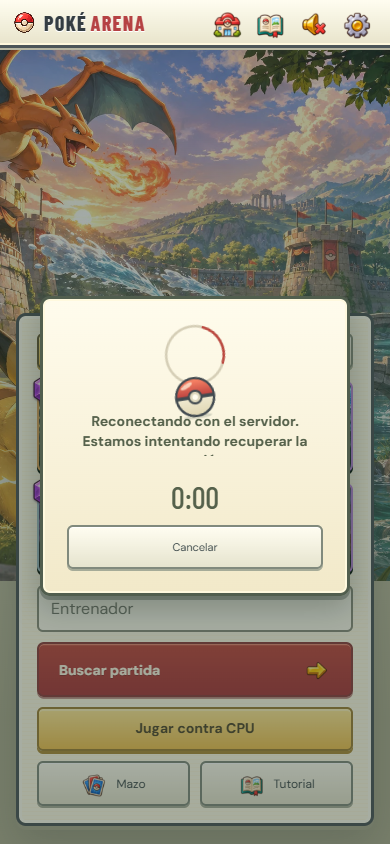
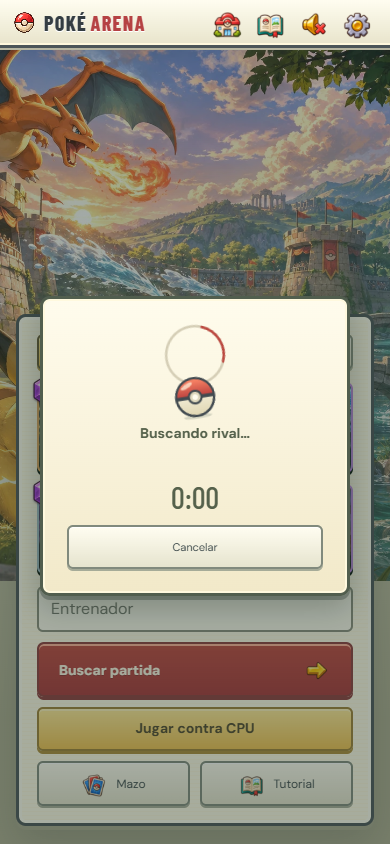
Document the completed UI and loading review

Changed region(s): [[0.2154, 0.4929, 0.7692, 0.5545], [0.0923, 0.8009, 0.8923, 0.8318]]

diff --git a/docs/UI-UX-REVIEW.md b/docs/UI-UX-REVIEW.md
@@ -2,7 +2,7 @@
 
 Se revisaron la home, el editor, las fichas, una partida contra CPU, una partida online entre dos sesiones y Ajustes. Las capturas corresponden a esta revisión. El criterio fue priorizar el tablero y sus controles, mantener el estilo de menús crema de la época GBA/DS y usar texto que ayude a jugar.
 
-1. **Home: corregida y verificada.** Los cuatro mazos siguen guardándose automáticamente. Se corrigió el contraste del coste medio y se compactó el panel de portátiles: Mazo y Tutorial quedan visibles en 1280 × 720. Los botones principales tienen al menos 44 px de alto.
+1. **Home: corregida y verificada.** Los cuatro mazos siguen guardándose automáticamente. Se quitaron el título, el coste medio y la etiqueta visible del nombre; el campo conserva su etiqueta accesible. Se acomodaron las filas para aprovechar ese espacio, también en horizontal. El botón de CPU usa una tipografía consistente con los demás controles. Los botones principales tienen al menos 44 px de alto.
 
    <img src="ui-review/01-home.png" width="780" alt="Home de Poké Arena en un portátil: todos los controles caben en el panel.">
 
@@ -11,7 +11,7 @@ Se revisaron la home, el editor, las fichas, una partida contra CPU, una partida
    <img src="ui-review/02-editor.png" width="330" alt="Editor compacto con cuatro selectores y cartas de hechizos.">
    <img src="ui-review/02-detail.png" width="330" alt="Ficha de Pikachu con iconos de estadísticas de estilo RPG.">
 
-   La búsqueda sin coincidencias ofrece una acción para recuperar todas las cartas. La ayuda presenta tres pasos breves y deja las reglas completas como contenido opcional. Pausa, victoria y derrota comparten el panel crema y los controles ilustrados.
+   La búsqueda sin coincidencias ofrece una acción para recuperar todas las cartas. La ayuda presenta tres pasos breves y un acceso a la práctica; se retiró el bloque extenso de reglas. Pausa, victoria y derrota comparten el panel crema y los controles ilustrados.
 
    <img src="ui-review/02-help.png" width="300" alt="Ayuda breve con acceso directo a la práctica.">
    <img src="ui-review/02-result.png" width="300" alt="Resultado de partida con controles y panel crema.">
@@ -21,7 +21,7 @@ Se revisaron la home, el editor, las fichas, una partida contra CPU, una partida
    <img src="ui-review/03-mobile-battle.png" width="330" alt="Partida móvil sin cabecera, con tres habilidades desplazables sobre la arena.">
    <img src="ui-review/03-desktop-battle.png" width="900" alt="Partida de escritorio con el panel derecho integrado con el fondo.">
 
-4. **Partida online: verificada.** No hay pausa ni acceso al mazo durante la partida, tampoco mediante Espacio. Abrir ajustes desde escritorio o girar el teléfono no pausa la simulación online. Se comprobó además que una respuesta de despliegue demorada no deja el indicador ni permite duplicar la carta. Al finalizar se vuelve a la home para editar el mazo.
+4. **Partida online: verificada.** No hay pausa ni acceso al mazo durante la partida, tampoco mediante Espacio. Los accesos al inicio están bloqueados mientras la partida sigue activa. Una recarga recupera la misma sesión y sala, sin enviar una cancelación ni iniciar otra búsqueda. La recuperación comienza antes de terminar de descargar las imágenes. Si la recarga ocurre durante una búsqueda, continúa esa búsqueda. Abrir ajustes desde escritorio o girar el teléfono no pausa la simulación online. Se comprobó además que una respuesta de despliegue demorada no deja el indicador ni permite duplicar la carta. Al finalizar se vuelve a la home para editar el mazo.
 
    <img src="ui-review/04-online.png" width="900" alt="Partida online: nombre rival y reloj sobre el tablero, sin botón de pausa.">
 
@@ -51,3 +51,14 @@ La carga inicial usa una Pokébola animada con progreso real de sprites y atlas.
 
 <img src="ui-review/07-loading.png" width="330" alt="Carga inicial con Pokébola y progreso real sobre el menú, conservando el espacio de los controles.">
 <img src="ui-review/07-search.png" width="330" alt="Búsqueda de rival en una capa sobre el menú, con cancelar en una posición estable.">
+
+La última comprobación cubrió 320 × 568, 390 × 844, 768 × 1024, 1440 × 980 y 932 × 430. Las pruebas de carga demorada registraron cero cambios de posición o tamaño en el menú, la mano, la arena y el elixir. Tampoco se registraron eventos de desplazamiento visual durante esas pruebas locales. Se verificaron además la carga lenta de fuentes, los errores y su reintento, el movimiento reducido y una interrupción breve de conexión entre dos sesiones. Pasaron las 224 pruebas automatizadas, la comprobación de sintaxis, la compilación y la prueba del Worker generado.
+
+La próxima carta conserva su proporción y su nombre accesible, sin rótulo visible. El elixir usa un marco crema y segmentos morados. La guía mantiene tres pasos que se pueden omitir, con el mismo estilo de panel y botones del juego. Volver al inicio contra CPU pide confirmación; cancelar reanuda la partida o conserva una pausa manual previa.
+
+<img src="ui-review/08-home.png" width="330" alt="Menú compacto sin título ni rótulo visible del nombre.">
+<img src="ui-review/08-battle.png" width="330" alt="Próxima carta sin texto visible y barra de elixir con marco crema.">
+<img src="ui-review/08-tutorial.png" width="330" alt="Guía interactiva breve con número de paso y botón para omitir o terminar.">
+<img src="ui-review/08-confirm.png" width="330" alt="Confirmación antes de salir de una partida contra CPU.">
+
+La reconexión conserva el margen existente del servidor: 25 segundos de ausencia antes de resolver la partida por desconexión. Las pruebas utilizaron Chromium en Windows; no verifican el comportamiento de un teléfono físico ni sustituyen una revisión con lector de pantalla.
